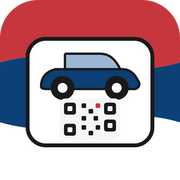
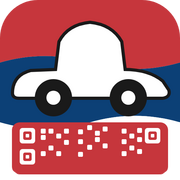
Ikonica: redizajn — veći auto i QR direktno na zastavi
Auto: bela silhueta + tamni stroke, bez bele podloge, zauzima ~55% visine
QR: crvena podloga (vidljiva i na plavom i na belom delu zastave), beli moduli, zauzima ~30% visine

diff --git a/service-worker.js b/service-worker.js
@@ -6,7 +6,7 @@
 //   - Cross-origin              -> ne dira (samo PURS-a nema više; sve je lokalno)
 //
 // Bumpuj CACHE_VERSION kad se menjaju ikonice ili kad treba obrisati stari keš.
-const CACHE_VERSION = 'v13';
+const CACHE_VERSION = 'v14';
 const CACHE_NAME = `fiskalac-${CACHE_VERSION}`;
 
 const SCOPE = new URL(self.registration.scope).pathname;
